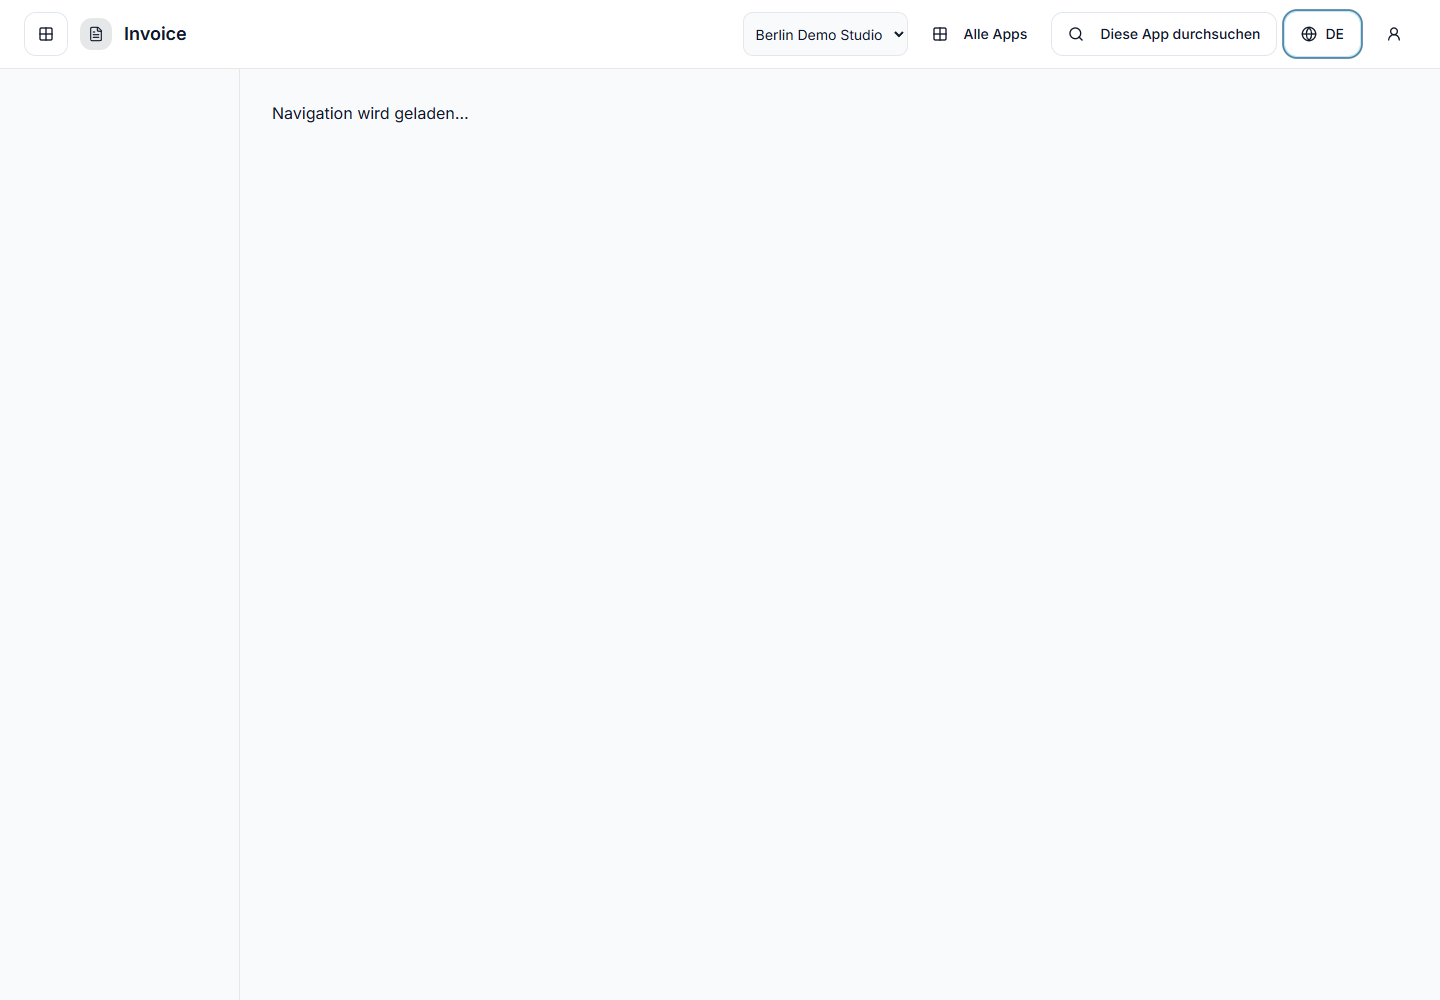
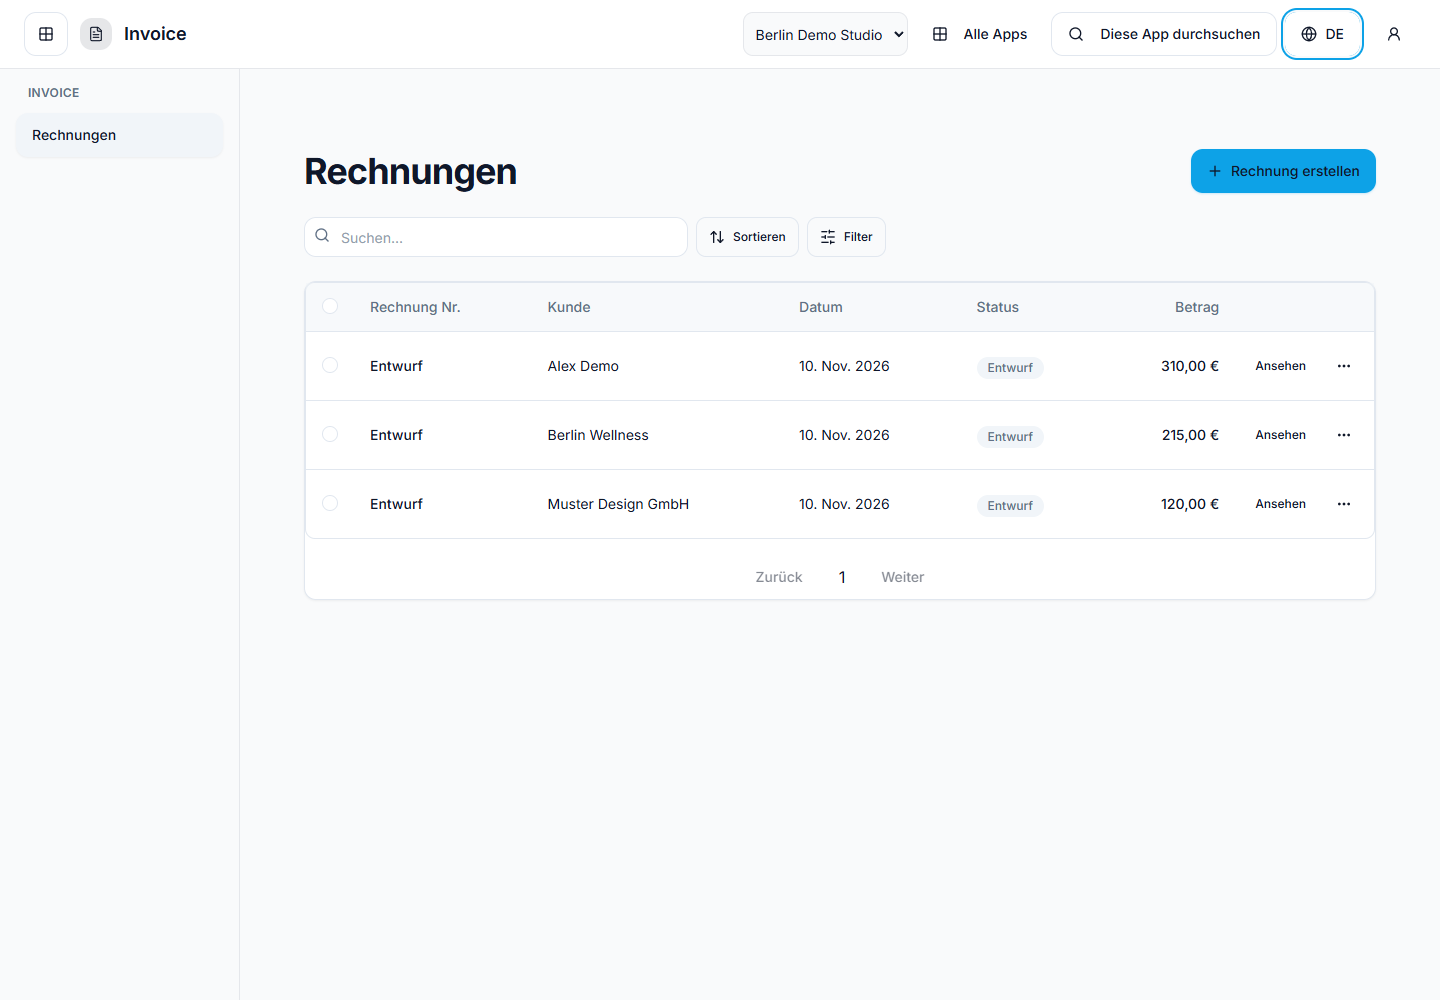
fix: keep focused navigation labels in the selected language

diff --git a/apps/hr/src/hr-app.tsx b/apps/hr/src/hr-app.tsx
@@ -32,7 +32,7 @@ function HrLayout({ appCenterOrigin }: { appCenterOrigin: string }) {
   const { client } = useSession();
   const workspace = useWorkspaceSession();
   const { pathname } = useLocation();
-  const { i18n } = useTranslation();
+  const { t, i18n } = useTranslation();
   const locale = i18n.language.startsWith("de")
     ? "de"
     : i18n.language.startsWith("vi")
@@ -80,6 +80,10 @@ function HrLayout({ appCenterOrigin }: { appCenterOrigin: string }) {
       workspace={workspace.workspace}
       workspaces={workspace.workspaces}
       onWorkspaceChange={workspace.selectWorkspace}
+      navigationLabels={{
+        "nav.people": t("nav.people"),
+        "nav.peopleSelfService": t("nav.peopleSelfService"),
+      }}
       locale={locale}
     >
       {permissions.isPending ? (

diff --git a/packages/web-shared/src/layout/focused-app-shell.tsx b/packages/web-shared/src/layout/focused-app-shell.tsx
@@ -113,6 +113,7 @@ export function FocusedAppShell({
     routeRoots
   ).map((group) => ({
     ...group,
+    defaultLabel: label,
     items: group.items.map((item) => ({
       ...item,
       label: (item.labelKey && navigationLabels[item.labelKey]) || item.label,
